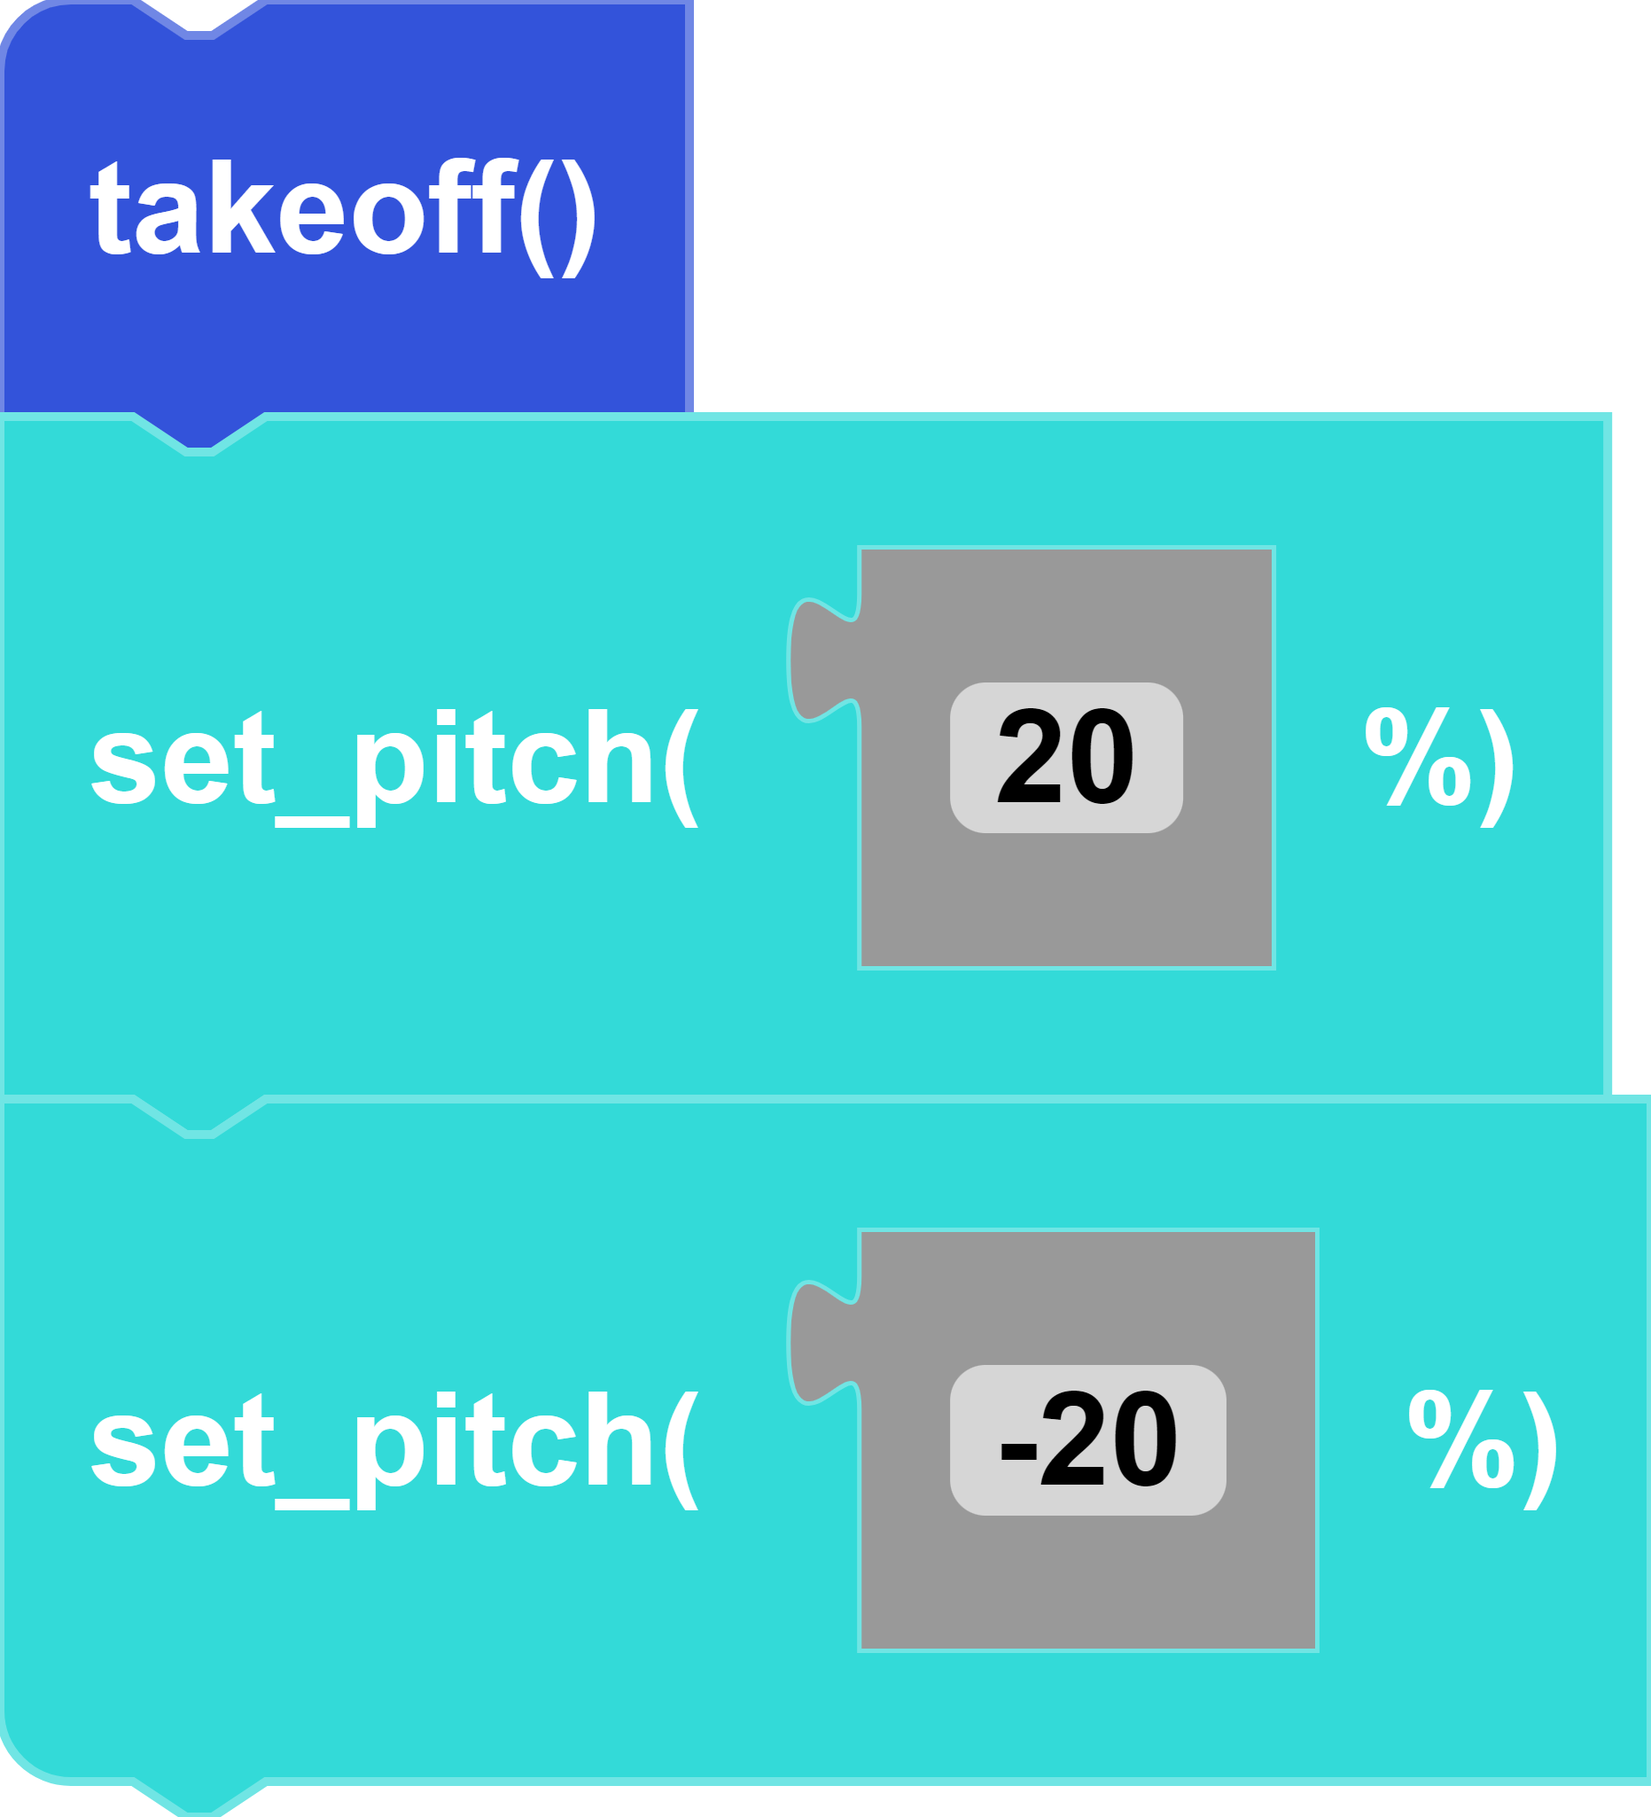
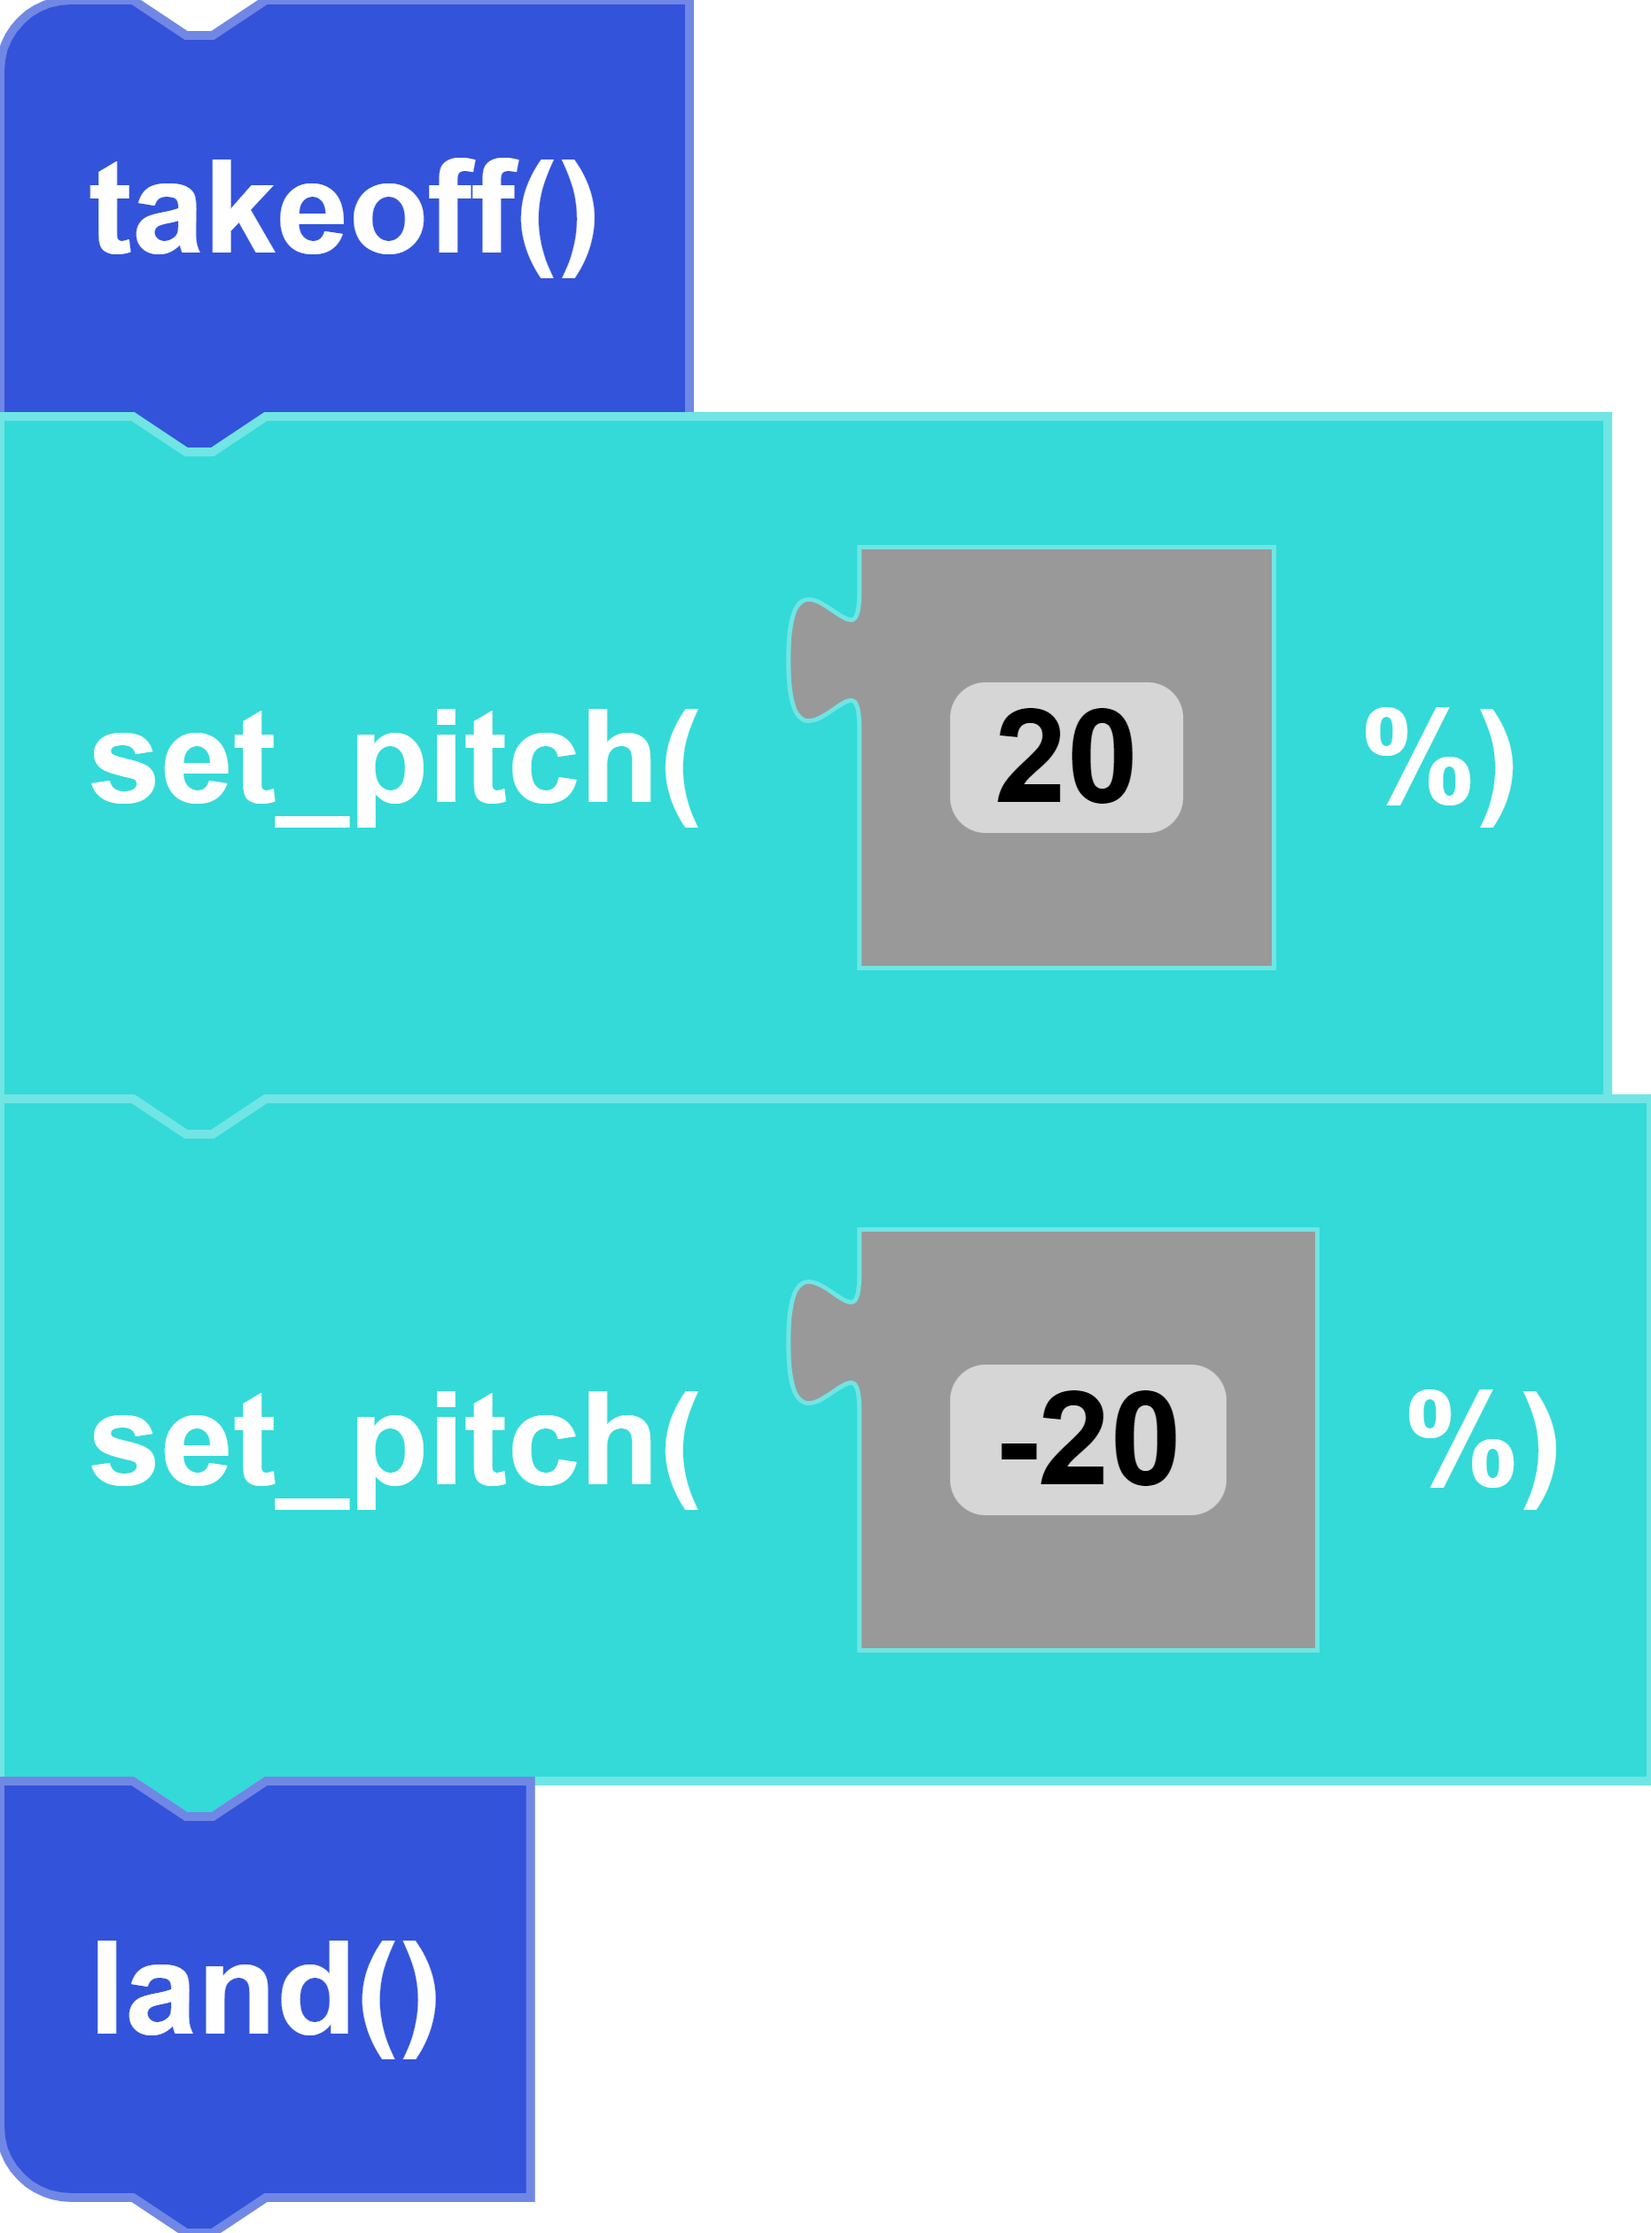
added land block to examples

diff --git a/docs/CoDroneEDU/Blockly/page4.md b/docs/CoDroneEDU/Blockly/page4.md
@@ -143,10 +143,10 @@ None
 
 #### Example
 
-<!-- In this example, the drone will move for 2 seconds with the roll and pitch set to 30%. Then, the drone will move for another 2 seconds with the roll and pitch set to -30%.
+In this example, the drone will move for 2 seconds with the roll and pitch set to 30%. Then, the drone will move for another 2 seconds with the roll and pitch set to -30%.
 <img src="/img/CDE/blockly_docu/senior/move-example1.png" width="480px"/>
 <br/>
-<br/> -->
+<br/>
 In the example below, the drone will move for 3 seconds with the yaw and throttle set to 50% and 25%. Then, the drone will move for another 3 seconds with the yaw and throttle set to -50% and -25%.
 <img src="/img/CDE/blockly_docu/senior/move-example2.png" width="480px"/> 
 
@@ -175,9 +175,15 @@ This functions makes the drone flip back, front, right, or left. Make sure your 
 None
 
 #### Example
-Add a hover or delay block after the flip if you need to stabilize before your next command. The drone takes 3-4 seconds after a flip before it can do another flight command.
 
-<img src="/img/CDE/blockly_docu/senior/flip_example.png" width="500px"/>  
+Add a hover or delay block after the flip if you need to stabilize before your next command. The drone takes 3-4 seconds after a flip before it can do another flight command. Not adding a delay after a flip can cause following blocks to not be performed.
+
+<img src="/img/CDE/blockly_docu/senior/flip_example.png" width="500px"/>
+<br/>
+<br/>
+
+In this example below, after take off, the drone should flip forward and backward **(flips might not be executed since a flip needs a wait/sleep block)**. 
+<img src="/img/CDE/blockly_docu/senior/flip_example2.png" width="180px"/>  
 
 <hr/>
 
@@ -285,10 +291,10 @@ None
 
 #### Example
 
-<!-- In this example, after taking off, the drone sets its roll variable at 20% for rightward movement and then sets its roll variable at -20% for leftward movement. This will not make the drone move yet.
+In this example, after taking off, the drone sets its roll variable at 20% for rightward movement and then sets its roll variable at -20% for leftward movement. This will not make the drone move yet.
 <img src="/img/CDE/blockly_docu/senior/set_roll_example2.png" width="180px"/>
 <br/>
-<br/> -->
+<br/>
 In this example, after taking off, the drone sets its roll variable at 30% for rightward movement and moves for 2 seconds. And then the drone sets its roll variable at -30% for leftward movement and moves for 2 seconds.
 <img src="/img/CDE/blockly_docu/senior/set_roll_example1.png" width="180px"/>  
 
@@ -315,10 +321,10 @@ None
 
 #### Example
 
-<!-- In this example, after taking off, the drone sets its pitch variable at 20% for forward movement and then sets its pitch variable at -20% for backward movement. This will not make the drone move yet.
+In this example, after taking off, the drone sets its pitch variable at 20% for forward movement and then sets its pitch variable at -20% for backward movement. This will not make the drone move yet.
 <img src="/img/CDE/blockly_docu/senior/set_pitch_example2.png" width="180px"/>
 <br/>
-<br/> -->
+<br/>
 In this example, after taking off, the drone sets its pitch variable at 30% for forward movement and moves for 2 seconds. And then the drone sets its pitch variable at -30% for backward movement and moves for 2 seconds.
 <img src="/img/CDE/blockly_docu/senior/set_pitch_example1.png" width="180px"/> 
 
@@ -345,10 +351,10 @@ None
 
 #### Example
 
-<!-- In this example, after taking off, the drone sets its yaw variable at 20% for right turns and then sets its yaw variable at -20% for left turns. This will not make the drone move yet.
+In this example, after taking off, the drone sets its yaw variable at 20% for right turns and then sets its yaw variable at -20% for left turns. This will not make the drone move yet.
 <img src="/img/CDE/blockly_docu/senior/set_yaw_example2.png" width="180px"/>
 <br/>
-<br/> -->
+<br/>
 In this example, after taking off, the drone sets its yaw variable at 30% for right turns and moves for 2 seconds. And then the drone sets its yaw variable at -30% for left turns and moves for 2 seconds.
 <img src="/img/CDE/blockly_docu/senior/set_yaw_example1.png" width="180px"/>  
 
@@ -375,10 +381,10 @@ None
 
 #### Example
 
-<!-- In this example, after taking off, the drone sets its throttle variable at 20% for upward movement and then sets its throttle variable at -20% for downward movement. This will not make the drone move yet.
+In this example, after taking off, the drone sets its throttle variable at 20% for upward movement and then sets its throttle variable at -20% for downward movement. This will not make the drone move yet.
 <img src="/img/CDE/blockly_docu/senior/set_throttle_example2.png" width="180px"/>
 <br/>
-<br/> -->
+<br/>
 In this example, after taking off, the drone sets its throttle variable at 30% for upward movement and moves for 2 seconds. And then the drone sets its throttle variable at -30% for downward movement and moves for 2 seconds.
 <img src="/img/CDE/blockly_docu/senior/set_throttle_example1.png" width="180px"/>    
 
@@ -661,10 +667,10 @@ Returns the calculated distance from either the front or bottom infrared (IR) ra
 
 In this example, after takeoff, the drone has its throttle set at 20% power, moving upward. Before entering the loop, it checks if the drone has already reached the maximum bottom range (set as 100), measured in centimeters. If not, it will continuously fly upward until the current bottom range is more than the max bottom range.
 <img src="/img/CDE/blockly_docu/senior/get_range_example1.png" width="450px"/>
-<!-- <br/>
+<br/>
 <br/>
 In this example below, run the program, manually point the drone to a wall, and then move it aroun until the drone is less than 70 cm away from a wall. Click the Stop button if you want to stop running the program.
-<img src="/img/CDE/blockly_docu/senior/get_range_example2.png" width="450px"/>  --> 
+<img src="/img/CDE/blockly_docu/senior/get_range_example2.png" width="450px"/>  
 
 <hr/>
 
@@ -796,10 +802,10 @@ Returns the current estimated position of the CoDrone EDU using the optical flow
 
 In this example, after takeoff, the console prints the x-y-z coordinates of the drone's position, in centimeters. Then, prints the x-y-z coordinates again after moving for 2 seconds.
 <img src="/img/CDE/blockly_docu/senior/get_pos_ex1.png" width="450px"/>
-<!-- <br/>
+<br/>
 <br/>
 In this example, after takeoff, the console prints the x-y-z coordinates of the drone's position, in inches. Prints x-coordinate of the drone after moving right. Prints y-coordinate of the drone after moving forward. Prints z-coordinate of the drone after flying higher.
-<img src="/img/CDE/blockly_docu/senior/get_pos_ex2.png" width="450px"/>   -->
+<img src="/img/CDE/blockly_docu/senior/get_pos_ex2.png" width="450px"/>  
 
 <hr/>
 
@@ -825,10 +831,10 @@ None
 #### Example
 In this example, the program will check the drone's battery before takeoff and after landing.
 <img src="/img/CDE/blockly_docu/senior/get_battery_example1.png" width="160px"/>
-<!-- <br/>
+<br/>
 <br/>
 In the example below, the program will check the drone's battery before takeoff and after the front flip. The difference of battery percentage will be larger in this example than the previous one.
-<img src="/img/CDE/blockly_docu/senior/get_battery_example2.png" width="160px"/> --> 
+<img src="/img/CDE/blockly_docu/senior/get_battery_example2.png" width="160px"/> 
 
 <hr/>
 
@@ -971,10 +977,10 @@ This functions reads the color data from either of the two bottom color sensors 
 
 In this example, if the drone's front color detector detects the color green, the drone's LED will light up green; otherwise, the drone's LED will turn off.
 <img src="/img/CDE/blockly_docu/senior/get_color_data_ex1.png" width="500px"/>
-<!-- <br/>
+<br/>
 <br/>
 In the example below, place the drone under two different colored surfaces, so that the back and front sensor detector aren't detecting the same surface. The program will output different colors for the back and front sensor.
-<img src="/img/CDE/blockly_docu/senior/get_color_data_ex2.png" width="500px"/>  --> 
+<img src="/img/CDE/blockly_docu/senior/get_color_data_ex2.png" width="500px"/>  
 
 <hr/>
 
